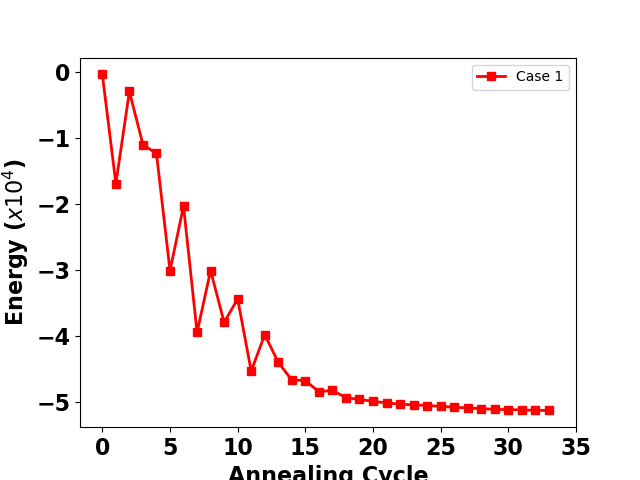
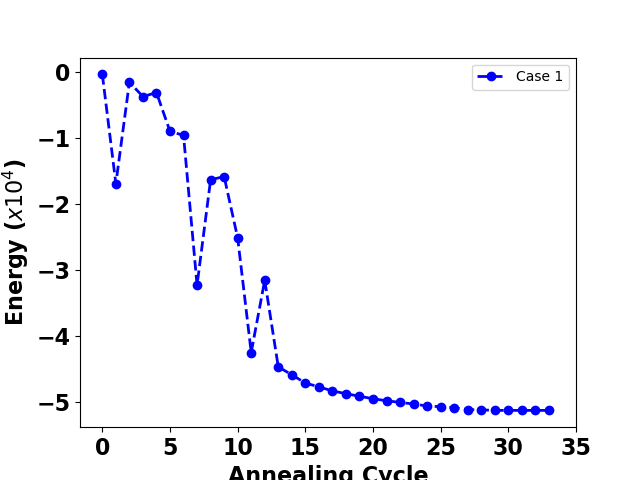
done

Changed region(s): [[0.25, 0.2188, 0.875, 0.875], [0.1562, 0.125, 0.25, 0.4062], [0.75, 0.125, 0.7812, 0.1875]]

diff --git a/Ising_computation_w_test_2.py b/Ising_computation_w_test_2.py
@@ -398,13 +398,13 @@ def ising_test_data():
 
 
     # annealing
-    next_spin = annealing_ver2(11,1000,this_spin,image_size, cols)
+    next_spin = annealing_ver2(11,800,this_spin,image_size, cols)
     # start Ising
     this_spin,KPI,H_sigma_array = Ising_start(next_spin,J,rows,cols,1,Ising_KPI)
 
 
     # annealing
-    next_spin = annealing_ver2(12,1200,this_spin,image_size, cols)
+    next_spin = annealing_ver2(12,1500,this_spin,image_size, cols)
     # start Ising
     this_spin,KPI,H_sigma_array = Ising_start(next_spin,J,rows,cols,1,Ising_KPI)
     plt.axis('off')
@@ -413,7 +413,7 @@ def ising_test_data():
     plt.show()
 
     # annealing
-    next_spin = annealing_ver2(30,200,this_spin,image_size, cols)
+    next_spin = annealing_ver2(30,300,this_spin,image_size, cols)
     # start Ising
     this_spin,KPI,H_sigma_array = Ising_start(next_spin,J,rows,cols,1,Ising_KPI)
 
@@ -524,13 +524,13 @@ def ising_test_data_ver2():
 
 
     # annealing
-    next_spin = annealing_ver2(31,2000,this_spin,image_size, cols)
+    next_spin = annealing_ver2(31,1900,this_spin,image_size, cols)
     # start Ising
     this_spin,KPI,H_sigma_array = Ising_start(next_spin,J,rows,cols,1,Ising_KPI)
 
 
     # annealing
-    next_spin = annealing_ver2(32,2200,this_spin,image_size, cols)
+    next_spin = annealing_ver2(32,2000,this_spin,image_size, cols)
     # start Ising
     this_spin,KPI,H_sigma_array = Ising_start(next_spin,J,rows,cols,1,Ising_KPI)
     plt.axis('off')
@@ -556,13 +556,13 @@ def ising_test_data_ver2():
     this_spin,KPI,H_sigma_array = Ising_start(next_spin,J,rows,cols,1,Ising_KPI)
 
     # annealing
-    next_spin = annealing_ver2(8,2200,this_spin,image_size,cols)
+    next_spin = annealing_ver2(8,1200,this_spin,image_size,cols)
     # start Ising
     this_spin,KPI,H_sigma_array = Ising_start(next_spin,J,rows,cols,1,Ising_KPI)
 
 
     # annealing
-    next_spin = annealing_ver2(11,100,this_spin,image_size,cols)
+    next_spin = annealing_ver2(11,700,this_spin,image_size,cols)
     # start Ising
     this_spin,KPI,H_sigma_array = Ising_start(next_spin,J,rows,cols,2,Ising_KPI)
     plt.axis('off')
@@ -571,7 +571,7 @@ def ising_test_data_ver2():
     plt.show()
 
     # annealing
-    next_spin = annealing_ver2(42,60,this_spin,image_size,cols)
+    next_spin = annealing_ver2(42,500,this_spin,image_size,cols)
     # start Ising
     this_spin,KPI,H_sigma_array = Ising_start(next_spin,J,rows,cols,1,Ising_KPI)
     # print(this_spin)
@@ -582,21 +582,21 @@ def ising_test_data_ver2():
     # start Ising
     this_spin,KPI,H_sigma_array = Ising_start(next_spin,J,rows,cols,1,Ising_KPI)
 
-    # annealing
-    next_spin = annealing_ver2(6,500,this_spin,image_size,cols)
-    # start Ising
-    this_spin,KPI,H_sigma_array = Ising_start(next_spin,J,rows,cols,1,Ising_KPI)
+    # # annealing
+    # next_spin = annealing_ver2(6,200,this_spin,image_size,cols)
+    # # start Ising
+    # this_spin,KPI,H_sigma_array = Ising_start(next_spin,J,rows,cols,1,Ising_KPI)
 
 
-    # annealing
-    next_spin = annealing_ver2(63,1220,this_spin,image_size,cols)
-    # start Ising
-    this_spin,KPI,H_sigma_array = Ising_start(next_spin,J,rows,cols,1,Ising_KPI)
+    # # annealing
+    # next_spin = annealing_ver2(63,1220,this_spin,image_size,cols)
+    # # start Ising
+    # this_spin,KPI,H_sigma_array = Ising_start(next_spin,J,rows,cols,1,Ising_KPI)
 
-    # annealing
-    next_spin = annealing_ver2(69,1000,this_spin,image_size,cols)
-    # start Ising
-    this_spin,KPI,H_sigma_array = Ising_start(next_spin,J,rows,cols,1,Ising_KPI)
+    # # annealing
+    # next_spin = annealing_ver2(69,1000,this_spin,image_size,cols)
+    # # start Ising
+    # this_spin,KPI,H_sigma_array = Ising_start(next_spin,J,rows,cols,1,Ising_KPI)
 
 
     # annealing
@@ -623,13 +623,13 @@ def ising_test_data_ver2():
     # plt.show()
     return KPI_new
 
-KPI_test_data = ising_test_data()
-# KPI_new = ising_test_data_ver2()
+# KPI_test_data = ising_test_data()
+KPI_new = ising_test_data_ver2()
 
 
 plt.figure(1)
-plt.plot(KPI_test_data,marker='s', color='r', linewidth=2)
-# plt.plot(KPI_new,marker='o', color='b',linestyle='dashed', linewidth=2)
+# plt.plot(KPI_test_data,marker='s', color='r', linewidth=2)
+plt.plot(KPI_new,marker='o', color='b',linestyle='dashed', linewidth=2)
 plt.legend(["Case 1", "Case 2"])
 plt.xlabel("Annealing Cycle",fontsize=16,fontweight='bold')
 plt.ylabel('Energy ($x10^{4}$)',fontsize=16,fontweight='bold')
